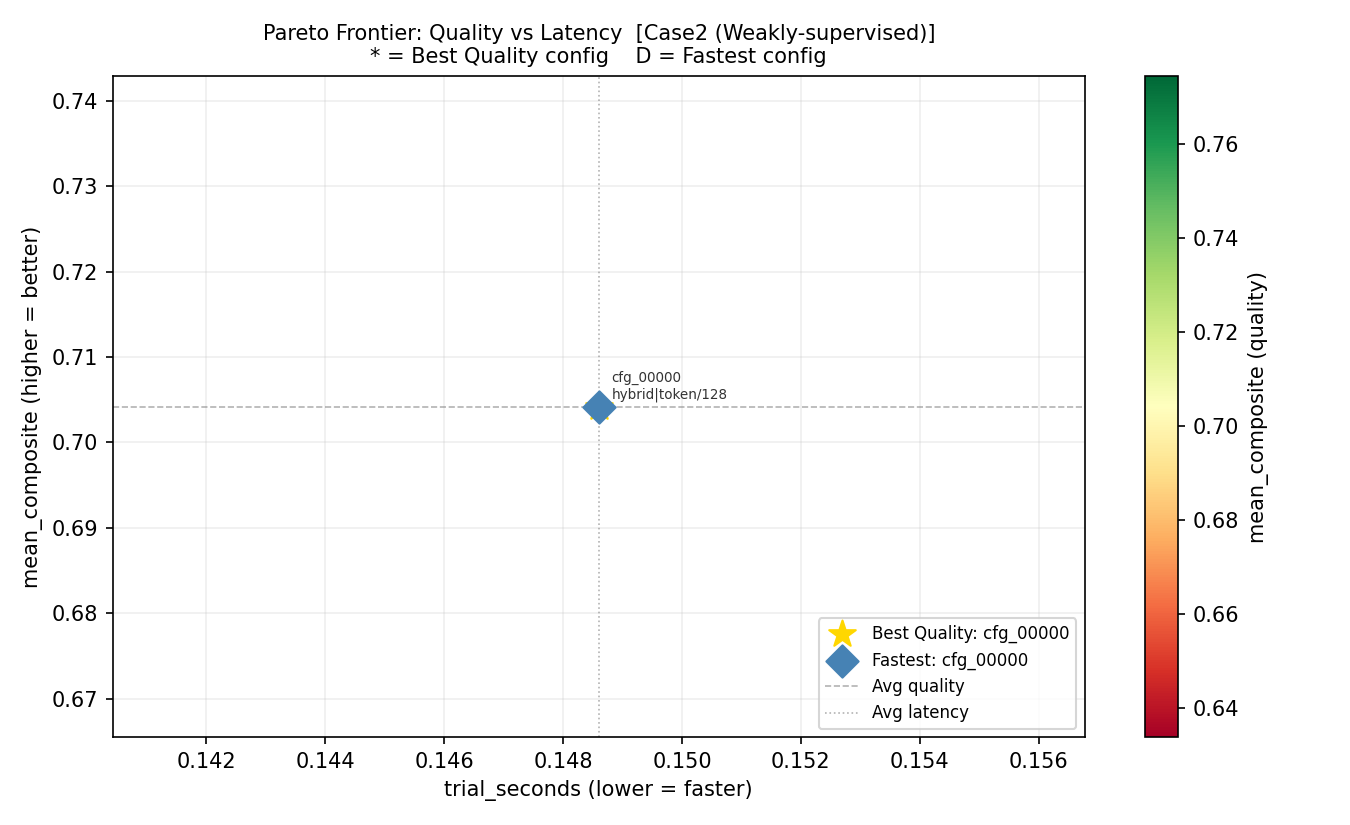
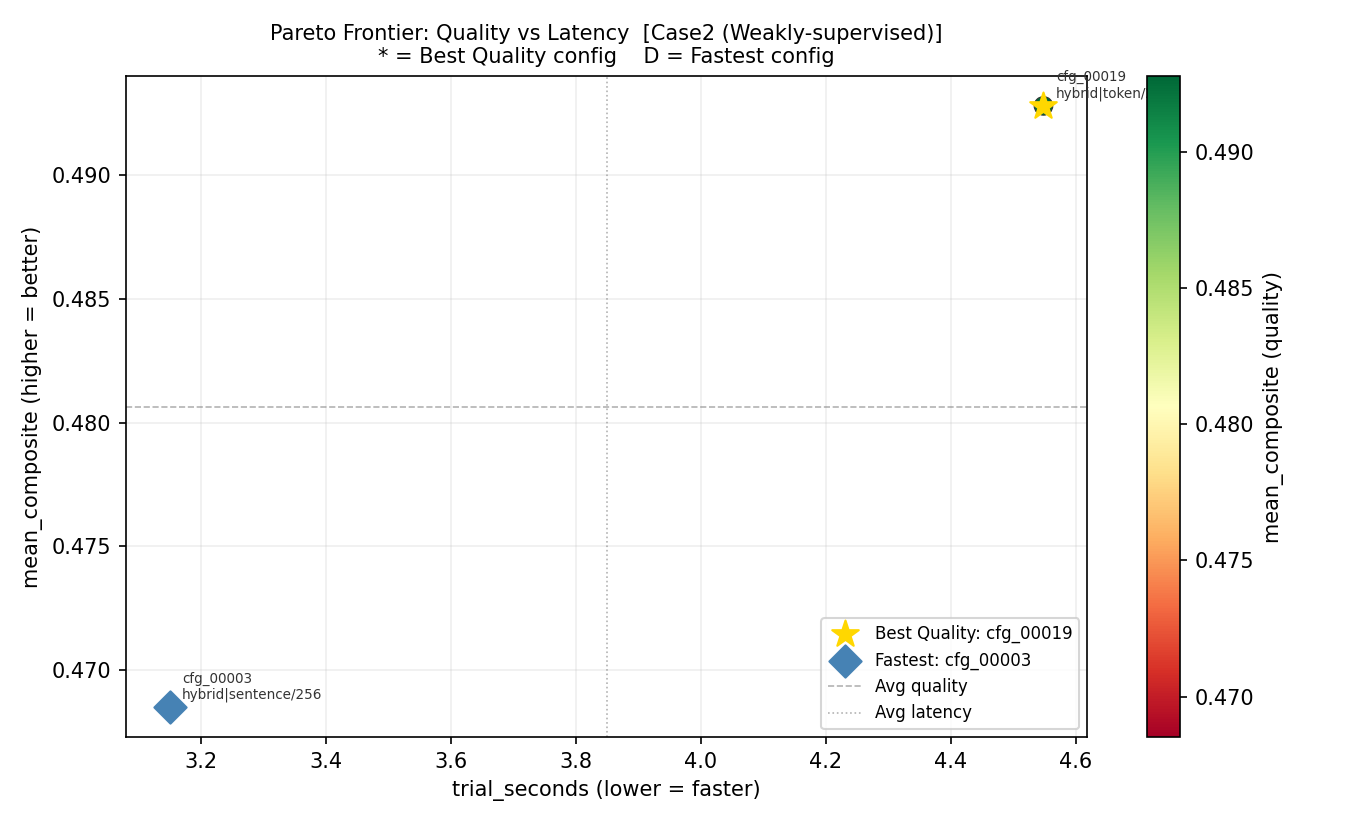
chore(outputs): refresh reports, pareto plots and diagnostics

diff --git a/outputs/final_report.md b/outputs/final_report.md
@@ -1,24 +1,24 @@
 # RAG 优化器最终报告
 
 ## 1. 项目目标
-本项目通过统一优化框架，在 Case1（有监督）与 Case2（弱监督）下自动搜索并选择最优 RAG 配置，输出可解释的推荐结果。
+本项目通过统一优化框架，在 Case1（有监督）与 Case2（弱监督）下自动搜索并选择最优 RAG 配置，基于本地代码指标输出可解释的推荐结果。
 
 ## 2. Case1 推荐配置（有监督）
-- 配置ID：`cfg_00000`
+- 配置ID：`cfg_00015`
 - 检索器：hybrid
-- 分块策略：token / size=128
-- 重排：False
-- 训练分数：0.6503，保留集分数：0.8926，过拟合差值：-0.2423
+- 分块策略：sentence / size=512
+- 重排：True
+- 训练分数：0.5784，保留集分数：0.6003，过拟合差值：-0.0219
 
 **推荐原因：**
-Case1 以 context_recall + answer_similarity + faithfulness 为目标，最优配置在训练集与保留集上表现稳定，说明在有参考答案场景下泛化较好。
+Case1 以 context_recall + answer_similarity + faithfulness 为目标，并用本地代码代理指标约束答案相关性与上下文相关性，最优配置在训练集与保留集上表现稳定，说明在有参考答案场景下泛化较好。
 
 ## 3. Case2 推荐配置（弱监督）
-- 配置ID：`cfg_00000`
+- 配置ID：`cfg_00019`
 - 检索器：hybrid
-- 分块策略：token / size=128
+- 分块策略：token / size=256
 - 重排：False
-- 训练分数：0.7042，保留集分数：0.8423，过拟合差值：-0.1381
+- 训练分数：0.4928，保留集分数：0.6096，过拟合差值：-0.1168
 
 **推荐原因：**
 Case2 无参考答案，优化目标切换为 retrieval_coverage_proxy + groundedness + citation_quality。该配置在弱监督代理指标下综合最优，且能够保持答案与检索证据的一致性。
@@ -28,10 +28,10 @@ Case2 无参考答案，优化目标切换为 retrieval_coverage_proxy + grounde
 |---|---|---|
 | 优化目标 | 提升答案与参考的一致性，同时保证证据支撑 | 在无参考答案条件下最大化证据覆盖与可溯源性 |
 | 核心指标 | context_recall / answer_similarity / faithfulness | retrieval_coverage_proxy / groundedness / citation_quality |
-| 推荐配置ID | cfg_00000 | cfg_00000 |
-| train_score | 0.6503 | 0.7042 |
-| holdout_score | 0.8926 | 0.8423 |
-| overfit_gap | -0.2423 | -0.1381 |
+| 推荐配置ID | cfg_00015 | cfg_00019 |
+| train_score | 0.5784 | 0.4928 |
+| holdout_score | 0.6003 | 0.6096 |
+| overfit_gap | -0.0219 | -0.1168 |
 
 ## 5. Case1 到 Case2 的迁移优化思路
 - 保留 Case1 中已验证有效的结构化分块、检索与重排搜索空间；
